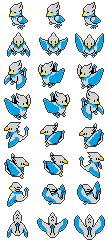
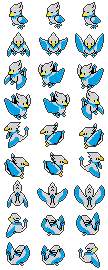
캐릭터 및 특수키 기능 추가

diff --git a/2DGPProject/game_state.py b/2DGPProject/game_state.py
@@ -9,6 +9,7 @@ from pico2d import *
 import tile
 from player import Player
 from enemy import Enemy
+from terrorlight import TerrorLight
 
 name = "GameState"
 
@@ -25,10 +26,19 @@ def enter():
     #map = tile.load_tile_map('Resources/test_map.json')
 
     global enemys
-    enemys = [Enemy() for i in range(50)]
+    enemys = [Enemy() for i in range(20)]
+
+    global terrorlights
+    terrorlights = [TerrorLight() for i in range(30)]
 
     global player
     player = Player()
+
+    global do_not_draw_enemy
+    do_not_draw_enemy = False
+
+    global do_not_draw_terrorlight
+    do_not_draw_terrorlight = True
 
     hide_lattice()
     
@@ -61,11 +71,20 @@ def handle_events():
             elif event.key == SDLK_DOWN:
                 player.state = PLAYER_DOWN
                 player.stop_animation = False
-            elif event.key == SDLK_TAB:
+            elif event.key == SDLK_v:
                 map.viewRect = not map.viewRect
                 player.viewRect = not player.viewRect
                 for enemy in enemys:
                     enemy.viewRect = not enemy.viewRect
+                for terrorlight in terrorlights:
+                    terrorlight.viewRect = not terrorlight.viewRect
+            elif event.key == SDLK_e:
+                global do_not_draw_enemy
+                do_not_draw_enemy = not do_not_draw_enemy
+            elif event.key == SDLK_t:
+                global do_not_draw_terrorlight
+                do_not_draw_terrorlight = not do_not_draw_terrorlight
+
                 
 
         elif event.type == SDL_KEYUP:
@@ -92,19 +111,35 @@ def update():
     player.update(map)
     player.collision = False
 
-    for enemy in enemys:
-        enemy.update()
-        # 충돌 검출
-        player_left, player_right = player.x - 23, player.x + 23
-        player_top, player_bottom = player.y + 35, player.y - 35
+    if not do_not_draw_enemy:
+        for enemy in enemys:
+            enemy.update()
+            # 충돌 검출
+            player_left, player_right = player.x - 23, player.x + 23
+            player_top, player_bottom = player.y + 35, player.y - 35
 
-        enemy_left, enemy_right = enemy.x - 26, enemy.x + 26
-        enemy_top, enemy_bottom = enemy.y + 28, enemy.y - 28 
+            enemy_left, enemy_right = enemy.x - 26, enemy.x + 26
+            enemy_top, enemy_bottom = enemy.y + 28, enemy.y - 28 
         
-        enemy.collision = False
+            enemy.collision = False
 
-        if ((player_left <= enemy_right) and (player_top > enemy_bottom) and (player_right >= enemy_left) and (player_bottom < enemy_top)):
-            player.collision, enemy.collision = True, True
+            if ((player_left <= enemy_right) and (player_top > enemy_bottom) and (player_right >= enemy_left) and (player_bottom < enemy_top)):
+                player.collision, enemy.collision = True, True
+
+    if not do_not_draw_terrorlight:
+        for terrorlight in terrorlights:
+            terrorlight.update()
+            # 충돌 검출
+            player_left, player_right = player.x - 23, player.x + 23
+            player_top, player_bottom = player.y + 35, player.y - 35
+
+            terrorlight_left, terrorlight_right = terrorlight.x - 36, terrorlight.x + 36
+            terrorlight_top, terrorlight_bottom = terrorlight.y + 30, terrorlight.y - 30 
+        
+            terrorlight.collision = False
+
+            if ((player_left <= terrorlight_right) and (player_top > terrorlight_bottom) and (player_right >= terrorlight_left) and (player_bottom < terrorlight_top)):
+                player.collision, terrorlight.collision = True, True
 
     delay(0.01)
 
@@ -114,6 +149,11 @@ def draw():
     # background.draw(0, 0)
     map.draw_all_layer(0, 0)
     player.draw()
-    for enemy in enemys:
-        enemy.draw()
+    if not do_not_draw_enemy:
+        for enemy in enemys:
+            enemy.draw()
+
+    if not do_not_draw_terrorlight:
+        for terrorlight in terrorlights:
+            terrorlight.draw()
     update_canvas()

diff --git a/2DGPProject/terrorlight.py b/2DGPProject/terrorlight.py
@@ -1,4 +1,4 @@
-import random
+import random
 
 #from pico2d import *
 import pico2d
@@ -8,12 +8,12 @@ from sdl2 import *
 
 ENEMY_DEFAULT, ENEMY_DOWN, ENEMY_LEFT_DOWN, ENEMY_RIGHT_DOWN, ENEMY_LEFT, ENEMY_RIGHT, ENEMY_UP, ENEMY_LEFT_UP, ENEMY_RIGHT_UP = 0, 1, 2, 3, 4, 5, 6, 7, 8
 
-class Enemy:
+class TerrorLight:
     image = None
 
     def __init__(self):
-        if Enemy.image == None:
-            Enemy.image = pico2d.load_image('Resources/cubchoo.png')
+        if TerrorLight.image == None:
+            TerrorLight.image = pico2d.load_image('Resources/terrorlight.png')
         self.x, self.y = random.randint(100, 900), random.randint(100, 800)
         self.frame = 0
         self.state = ENEMY_DEFAULT #random.randint(0, 8)
@@ -103,8 +103,8 @@ class Enemy:
 
     def draw(self):
         if self.viewRect:
-            self.drawRect(self.x - 26, self.y - 28, self.x + 26, self.y + 28)
-        self.image.clip_draw(self.frame * 26, self.image.h - ((self.state+1) * 28), 26, 28, self.x, self.y, 26 * 2, 28 * 2)
+            self.drawRect(self.x - 36, self.y - 30, self.x + 36, self.y + 30)
+        self.image.clip_draw(self.frame * 36, self.image.h - ((self.state+1) * 30), 36, 30, self.x, self.y, 36 * 2, 30 * 2)
 
 
     def drawRect(self, x1, y1, x2, y2):

diff --git a/2DGPProject/title_state.py b/2DGPProject/title_state.py
@@ -26,7 +26,7 @@ def handle_events():
             if (event.type, event.key) == (SDL_KEYDOWN, SDLK_ESCAPE):
                 game_framework.quit()
             elif (event.type, event.key) == (SDL_KEYDOWN, SDLK_SPACE):
-                game_framework.change_state(main_state)
+                game_framework.change_state(game_state)
 
 
 def draw():

diff --git a/2DGPProject/2DGPProject.py b/2DGPProject/2DGPProject.py
@@ -4,6 +4,6 @@ import logo_state
 import game_state
 
 # logo state
-#game_framework.run(logo_state)
+game_framework.run(logo_state)
 # game_state
-game_framework.run(game_state)
+#game_framework.run(game_state)
